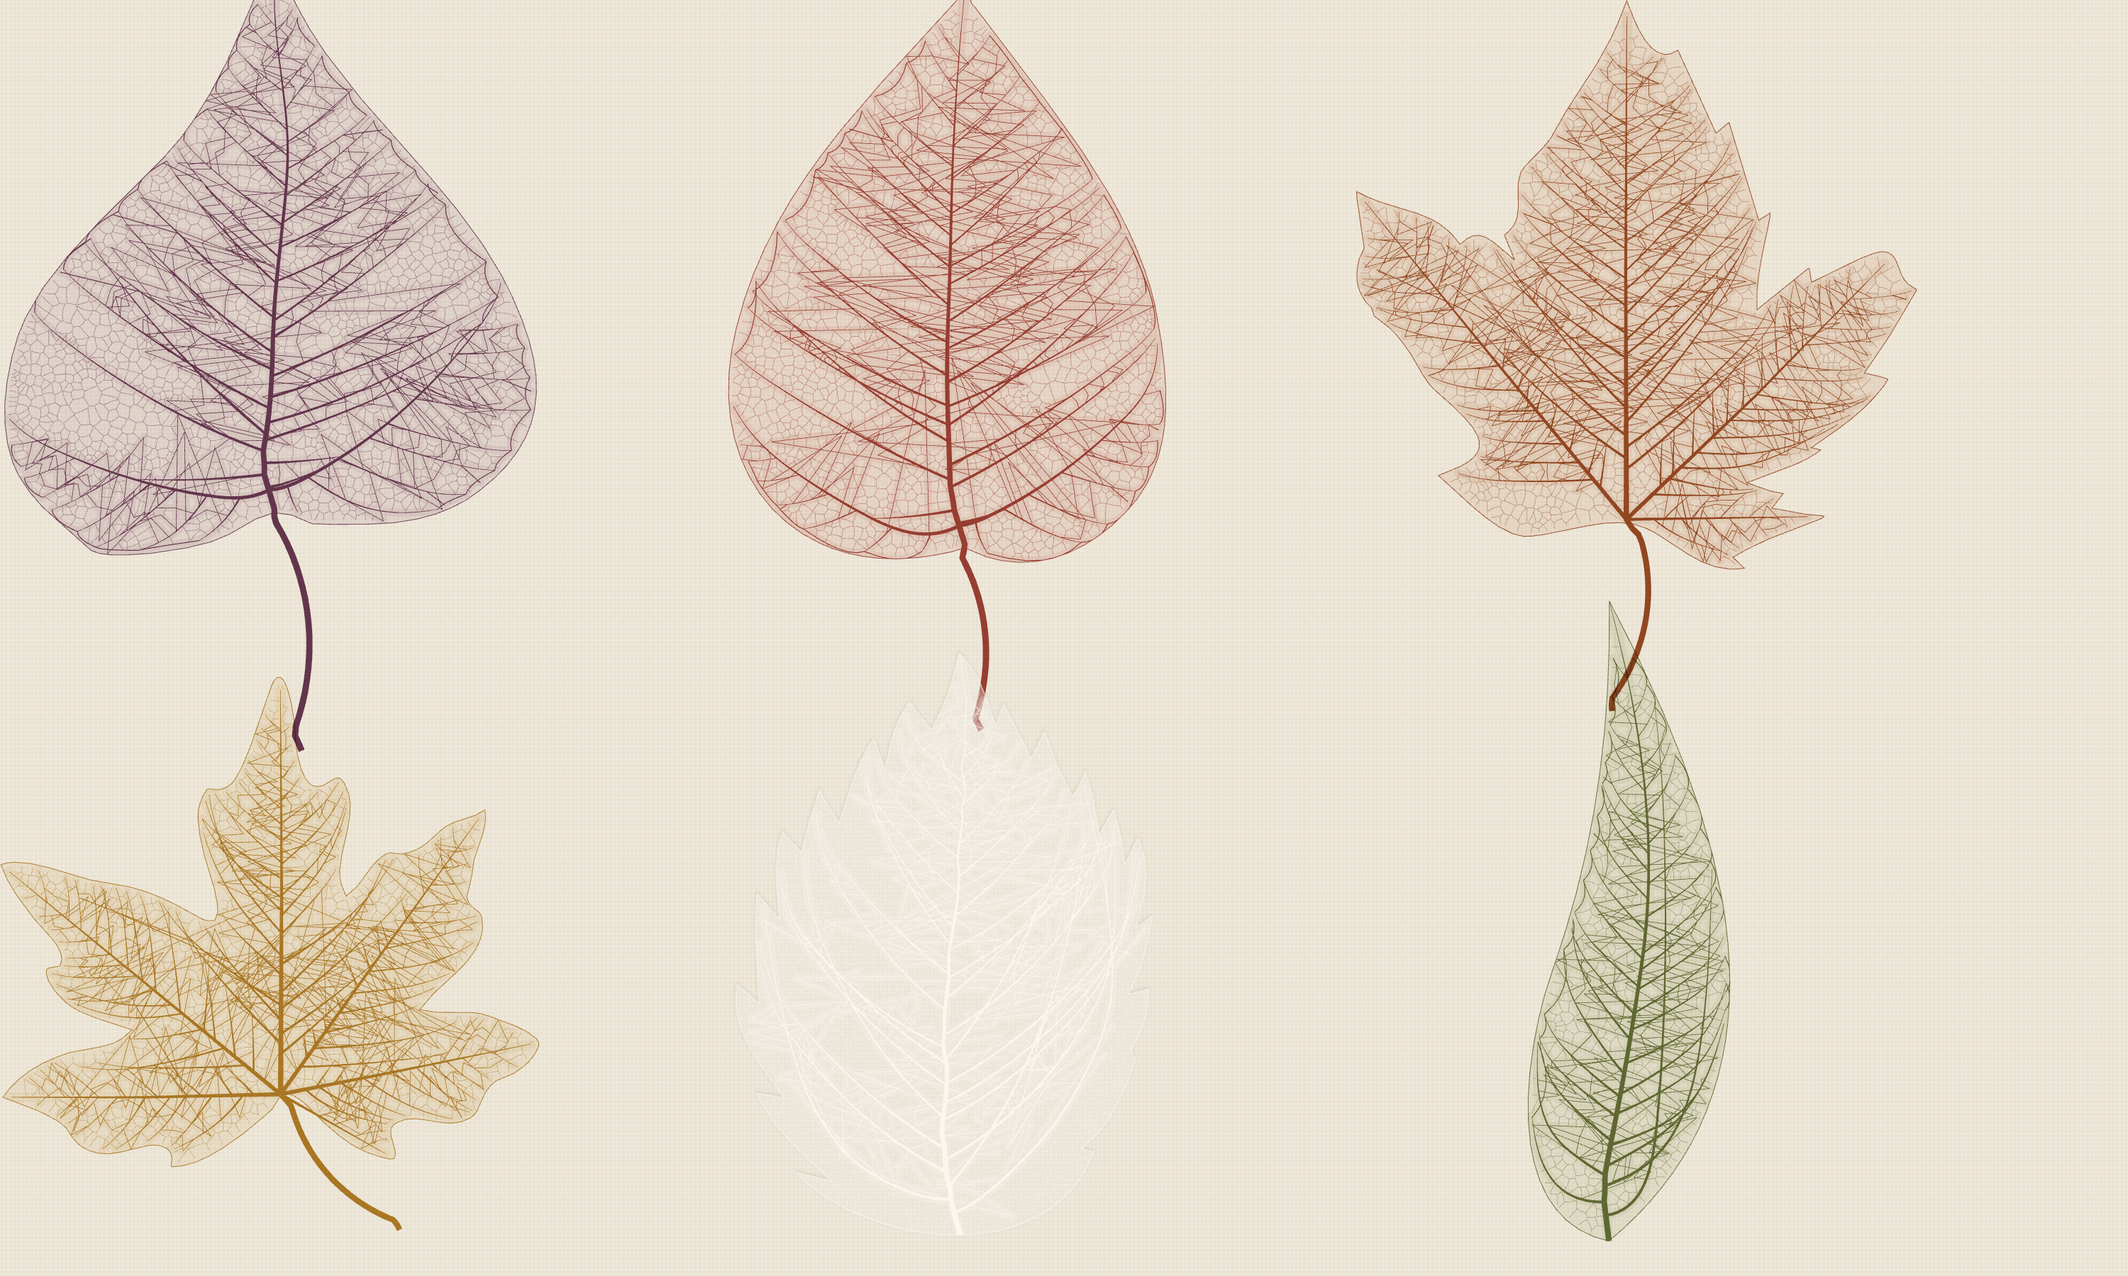
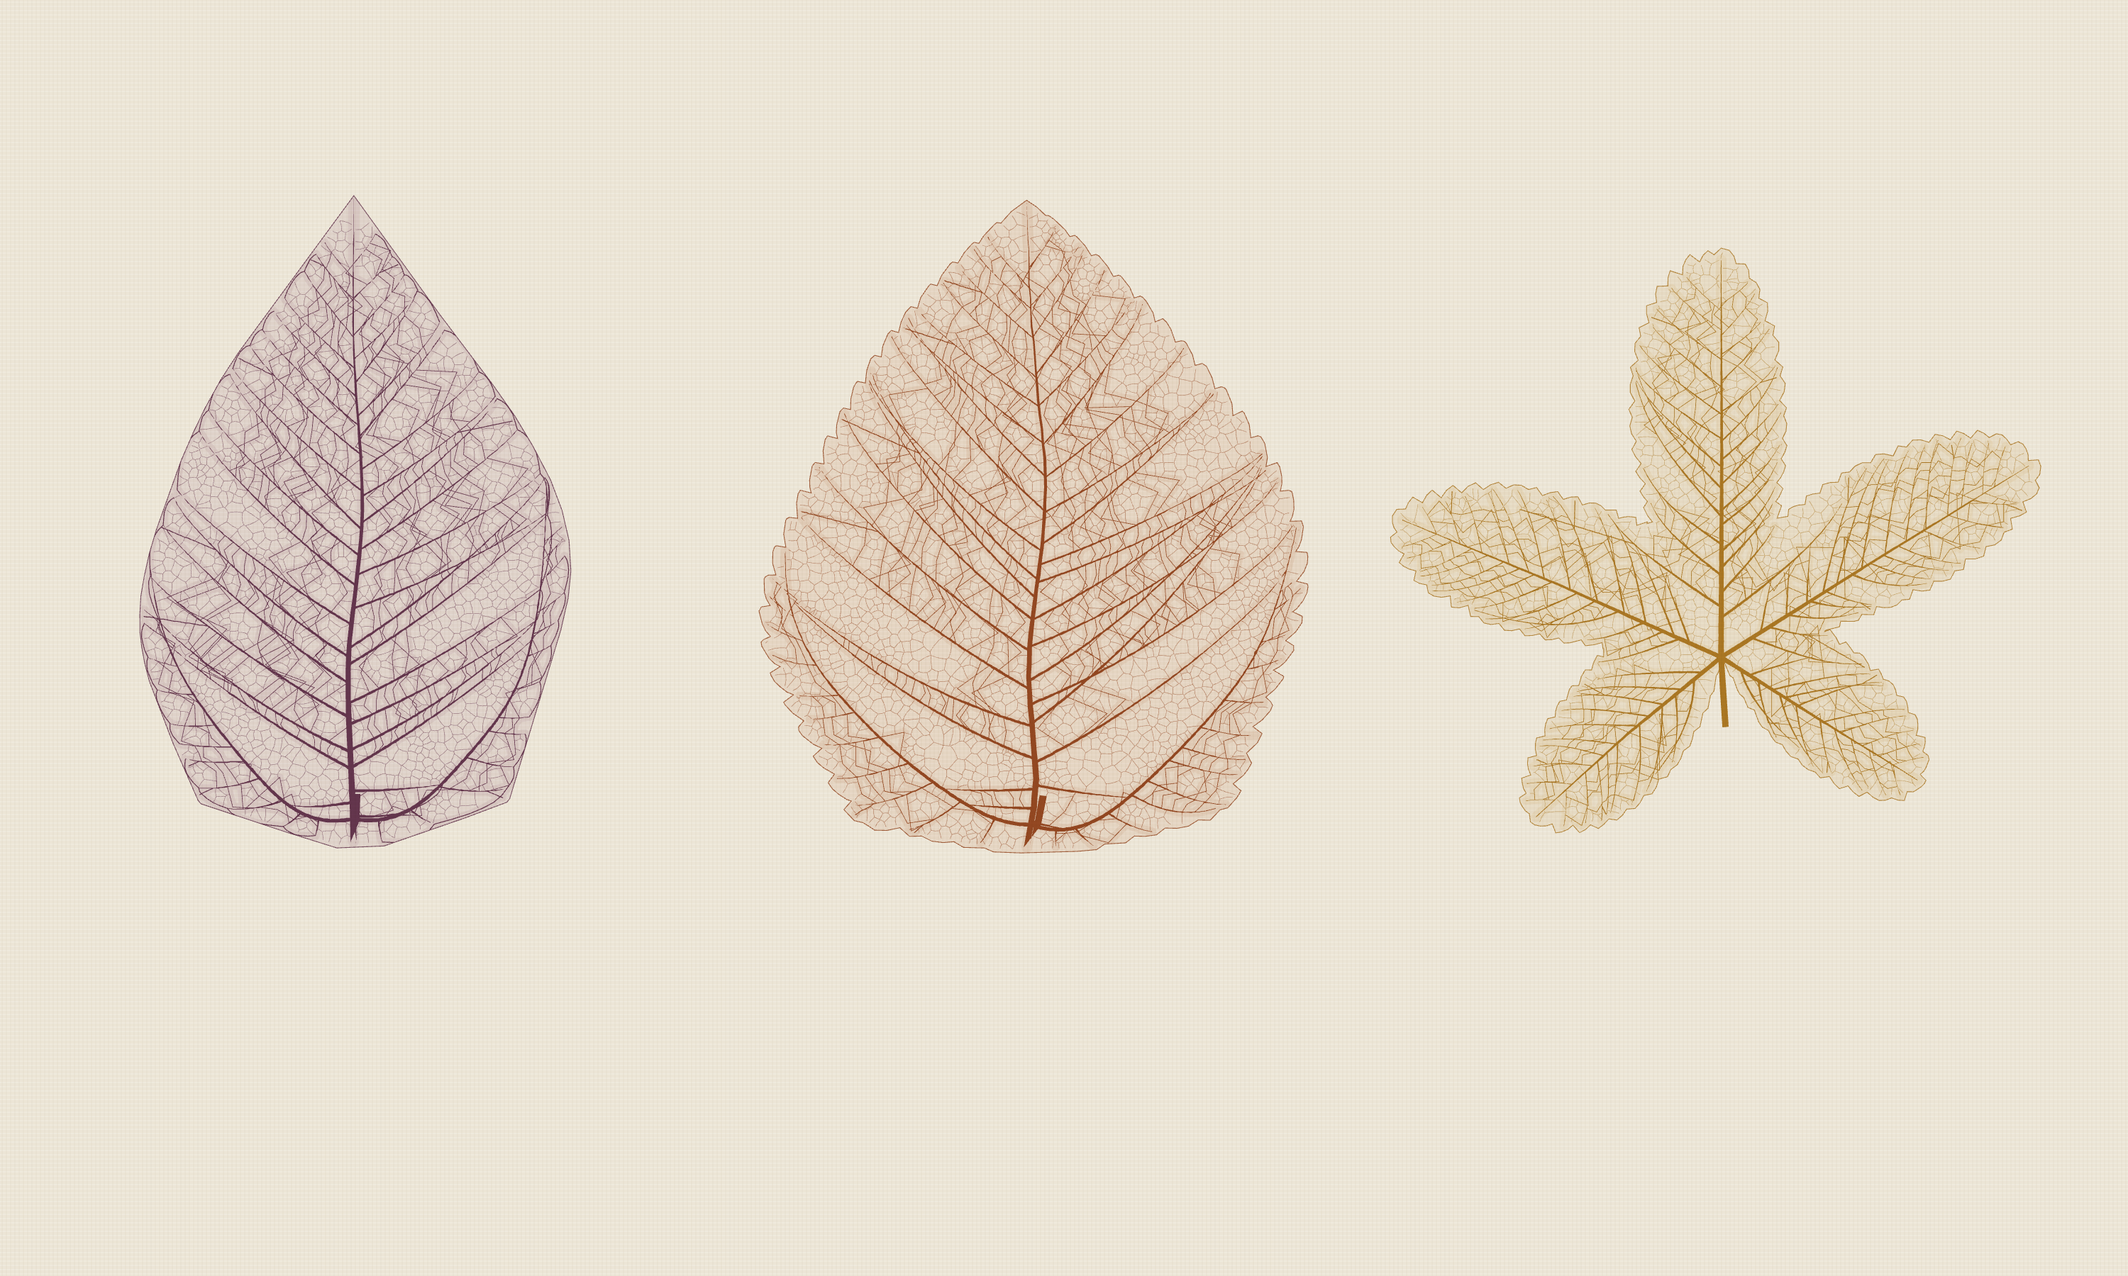
Phantom Bouquet: outlines generated from leaf geometry, maple added
The maintainer's verdict on the traced silhouettes -- sloppy, not the
basic geometry of real leaves -- retired variety.svg as the source of
shape. genleaf.py builds every outline from the law real leaves follow:
a two-arc width profile (convex base to the widest point, concave into
an acuminate tip), a notched petiole sinus, broad cordate lobes, graded
tipward-leaning serration on orientation-correct normals, and a few
percent of low-frequency asymmetry. A new palmate() fans five jittered
lobes with rounded sinus floors; the existing palmate venation branch
fans a primary to each tip on its own. The sheet is now eight forms,
the maple among them, all generated; the vein pipeline is unchanged.
The panel still renders the old traced shapes, rebuilt only on
sign-off. Not yet seen by the maintainer.

diff --git a/docs/phantom-bouquet/proto/genleaf.py b/docs/phantom-bouquet/proto/genleaf.py
@@ -1,0 +1,179 @@
+"""Parametric leaf outlines, built the way a real leaf is shaped.
+
+A broad-leaved dicot silhouette is remarkably lawful, and this module follows the law
+instead of tracing someone else's drawing:
+
+  axis        base (the petiole's attachment) to tip, straight, length L.
+  width       a smooth unimodal profile along the axis, widest at `peak` (25-45% of the
+              way up for ovate leaves, halfway for elliptic ones), drawn from the beta
+              form t^a (1-t)^b: a small exponent a flares the base out, a small b
+              draws the tip out long and concave.
+  base        rounded for the lanceolate forms; cordate for the hearts - the two sides
+              leave the sinus nearly horizontally and dip below it as lobes around the
+              petiole.
+  tip         acuminate: the profile's small-b tail, stretched a little further for a
+              drip tip.
+  margin      entire, or serrated: regular teeth, graded to the local blade width,
+              each leaning toward the tip - steep on the tipward side, long on the
+              baseward side, the way real teeth are cut.
+  asymmetry   a few percent of low-frequency difference between the sides, so no leaf
+              is a mirror image of itself.
+
+Each leaf is returned in the shape the rest of the pipeline already eats:
+{'blade': shapely Polygon, 'stem': (centreline points, width)} - tip pointing up (+y),
+base at the origin.
+"""
+import math
+import random
+import numpy as np
+from shapely.geometry import Polygon
+
+
+def _profile(t, peak, baseflare, tipfall, tiphook, notch):
+    # Two arcs, the way botany draws an ovate side: convex from base to the widest
+    # point, concave from there into an acuminate point. baseflare sets how wide the
+    # belly sits at its fullest near the base; notch drops the two sides steeply into
+    # the petiole's sinus right at the start - without it the base closes as a flat
+    # shelf, which no leaf has.
+    t = np.asarray(t, dtype=float)
+    w = np.empty_like(t)
+    lo = t <= peak
+    tb = t[lo] / peak
+    w[lo] = np.sqrt(baseflare + (1.0 - baseflare) * (1.0 - (1.0 - tb) ** 2))
+    w[lo] *= notch + (1.0 - notch) * np.minimum(1.0, tb / 0.16)
+    u = (t[~lo] - peak) / (1.0 - peak)
+    w[~lo] = (1.0 - u ** tiphook) ** tipfall
+    return w / w.max()
+
+
+def leaf(ratio, peak, baseflare=0.3, tipfall=1.0, tiphook=2.0, cordate=0.0, drip=0.0,
+         serrate=0.0, asym=0.05, notch=0.3, seed=1, L=100.0, n=300):
+    """Build one leaf. ratio L/W, widest at `peak` of the axis, convex base arc flared
+    by baseflare, concave tip arc ending in a point (tipfall, tiphook), cordate lobes,
+    drip tip, serrated margin, asymmetry. Returns the pipeline dict."""
+    rnd = random.Random(seed)
+    t = np.linspace(0.0, 1.0, n)
+    w = _profile(t, peak, baseflare, tipfall, tiphook, notch)
+
+    y = L * t
+    # cordate: the sides dip below the sinus as lobes around the petiole - broad ones,
+    # reaching halfway out the blade, not a narrow collar at the attachment
+    if cordate > 0:
+        sig = 0.10 + 0.02 * rnd.random()
+        y = y - cordate * L * 0.095 * np.exp(-(t / sig) ** 2)
+    # drip tip: the last stretch of the axis is drawn out, so the small-b taper ends
+    # in a thin curved point
+    if drip > 0:
+        y = y + drip * L * 0.055 * np.clip((t - 0.82) / 0.18, 0.0, 1.0) ** 1.6
+
+    halfw = 0.5 * L / ratio
+    # each side gets its own low-frequency breathing on the profile, and its own
+    # widest point, a couple of percent apart
+    phL, phR = rnd.uniform(0, 2 * math.pi), rnd.uniform(0, 2 * math.pi)
+    fL, fR = rnd.uniform(1.1, 1.7), rnd.uniform(1.1, 1.7)
+    eL = 1.0 + asym * np.sin(2 * math.pi * fL * t + phL) * np.exp(-((t - 0.05) / 0.5) ** 2 * 0.3)
+    eR = 1.0 + asym * np.sin(2 * math.pi * fR * t + phR) * np.exp(-((t - 0.05) / 0.5) ** 2 * 0.3)
+    xR = halfw * w * eR
+    xL = -halfw * w * eL
+
+    # right side base->tip, left side tip->base, one closed ring
+    ring = [(float(xR[i]), float(y[i])) for i in range(n)]
+    ring += [(float(xL[i]), float(y[i])) for i in range(n - 2, 0, -1)]
+
+    widths = np.concatenate([w, w[n - 2:0:-1]])
+    if serrate > 0:
+        ring = _teeth(ring, widths, w.max(), L, serrate, rnd)
+    poly = Polygon(ring).buffer(0)
+    if hasattr(poly, 'geoms'):
+        poly = max(poly.geoms, key=lambda g: g.area)
+    poly = poly.simplify(0.12)
+
+    # the petiole: a gently curved stalk down from the sinus
+    bend = rnd.uniform(-0.35, 0.35)
+    plen = L * rnd.uniform(0.10, 0.13)
+    stem = ([(0.0, 0.0),
+             (bend * plen * 0.35, -plen * 0.45),
+             (bend * plen, -plen)], 0.0)
+    return {'blade': poly, 'stem': stem}
+
+
+def _teeth(ring, widths, wmax, L, serrate, rnd, e1=0.7, e2=0.12):
+    """Serrate a closed margin. Teeth are graded to the local blade width, spaced
+    evenly in arc length, and each leans tipward: a long baseward slope and a sharp
+    drop - the profile peaks late, so the tooth reads as cut, not as a wobble."""
+    P = np.array(ring)
+    d = np.hypot(*(P[1:] - P[:-1]).T)
+    s = np.concatenate([[0.0], np.cumsum(d)])
+    total = s[-1]
+    # margin direction flips halfway (up the right side, down the left); the tooth's
+    # lean has to flip with it, or the left side's teeth point baseward
+    half = 0.5 * total
+    S = L / rnd.uniform(17.0, 20.0)
+    g = np.linspace(0.0, 1.0, 1001)
+    norm = ((g ** e1) * ((1.0 - g) ** e2)).max()
+    P = np.array(ring)
+    # which way is out: on a clockwise ring the outside is to the left of travel, on a
+    # counterclockwise one to the right (n = (-ty, tx) is the left of travel)
+    a2 = float((P[:-1, 0] * P[1:, 1] - P[1:, 0] * P[:-1, 1]).sum())
+    flip = 1.0 if a2 < 0 else -1.0
+    out = []
+    n = len(P)
+    for i in range(n):
+        a, c = P[max(0, i - 1)], P[min(n - 1, i + 1)]
+        tx, ty = c[0] - a[0], c[1] - a[1]
+        tl = math.hypot(tx, ty) or 1.0
+        nx, ny = -ty / tl * flip, tx / tl * flip
+        cx, cy = P[i]
+        # grade the tooth by the local blade width
+        grade = (widths[i] / wmax) ** 0.6
+        frac = ((s[i] / S) % 1.0)
+        gg = frac if s[i] < half else 1.0 - frac
+        h = serrate * L * 0.022 * grade
+        amp = h * (gg ** e1) * ((1.0 - gg) ** e2) / norm
+        out.append((cx + nx * amp, cy + ny * amp))
+    return out
+
+
+def palmate(lobes=5, R=100.0, sinus=0.32, serrate=1.4, asym=0.05, seed=1, m=48):
+    """A maple: lobe tips fan out from the base, and between them the margin dips into
+    rounded sinuses. Each lobe carries its own radius (the central one longest, the
+    outer shortest) and every control point is jittered a few percent, so the leaf is
+    not a star symmetry. Returns the pipeline dict, tip up, base at the origin."""
+    rnd = random.Random(seed)
+    spread = 138 + rnd.uniform(-7, 7)
+    ang = [-spread, -spread * 0.5, 0.0, spread * 0.5, spread][:lobes] if lobes == 5 else [0.0]
+    rl = [(1.0 - 0.24 * (a / spread) ** 2) * R for a in ang]
+    rl = [r * rnd.uniform(0.95, 1.05) for r in rl]
+    ang = [a + rnd.uniform(-3, 3) for a in ang]
+    rs = [sinus * R * rnd.uniform(0.92, 1.08) for _ in ang[:-1]]
+    rb = R * rnd.uniform(0.12, 0.17)
+    # controls from the base bottom (-180) up the right side and back down to (+180)
+    seq = [(-180.0, rb)]
+    for k, a in enumerate(ang):
+        if k:
+            seq.append(((ang[k - 1] + a) / 2.0, rs[k - 1]))
+        seq.append((a, rl[k]))
+    seq.append((180.0, rb))
+    ring = []
+    for (a0, r0), (a1, r1) in zip(seq, seq[1:]):
+        to_lobe = r1 > r0
+        for i in range(1, m + 1):
+            u = i / float(m)
+            th = math.radians(a0 + (a1 - a0) * u)
+            w = (1.0 + math.cos(math.pi * u)) / 2.0
+            if to_lobe:
+                r = r0 + (r1 - r0) * (1.0 - w ** 0.75)
+            else:
+                r = r1 + (r0 - r1) * w ** 0.8
+            ring.append((r * math.sin(th), r * math.cos(th) + rb))
+    ring = _teeth(ring, [math.hypot(px, py - 0.0) for px, py in ring], R, R, serrate, rnd, e2=0.09)
+    poly = Polygon(ring).buffer(0)
+    if hasattr(poly, 'geoms'):
+        poly = max(poly.geoms, key=lambda g: g.area)
+    poly = poly.simplify(0.12)
+    bend = rnd.uniform(-0.35, 0.35)
+    plen = R * rnd.uniform(0.16, 0.20)
+    stem = ([(0.0, 0.0),
+             (bend * plen * 0.35, -plen * 0.45),
+             (bend * plen, -plen)], 0.0)
+    return {'blade': poly, 'stem': stem}

diff --git a/docs/phantom-bouquet/proto/lab7.py b/docs/phantom-bouquet/proto/lab7.py
@@ -1,0 +1,40 @@
+import sys, os
+sys.path.insert(0, os.path.dirname(os.path.abspath(__file__)))
+import numpy as np
+import traced as T
+import skeleton as SK
+import genleaf as G
+src = open('gen-lite.py').read()
+LINEN = '#ECE5D6'
+DEFS = eval("(" + src.split("DEFS = (")[1].split("IVORY =")[0].strip())
+IVORY = ('#FBF7EC', '#FFFDF6')
+TINTS = {'madder': ('#A3443A', '#C2584B'), 'ochre': ('#B7832A', '#D4A043'), 'rust': ('#9E4F27', '#C0693A'), 'olive': ('#66733A', '#8A9852'), 'plum': ('#6B3B5A', '#8E5379')}
+
+# Six forms, each after one of the maintainer's reference photos. The generated leaves
+# take over the indices the pipeline's type sets know about: hearts are BROAD (a pair of
+# basal veins), serrated ones TOOTHED (secondaries run out to the teeth).
+LEAVES = [
+    G.leaf(1.35, 0.36, baseflare=0.38, tipfall=1.0, tiphook=1.9, cordate=1.0, drip=1.0, asym=0.05, notch=0.16, seed=11),    # 0 the bodhi-like heart
+    G.leaf(1.9, 0.33, baseflare=0.16, tipfall=1.05, tiphook=2.0, drip=0.7, asym=0.05, seed=22),                             # 1 ovate-lanceolate
+    G.leaf(1.18, 0.32, baseflare=0.38, tipfall=1.0, tiphook=1.9, cordate=1.0, serrate=1.0, asym=0.06, notch=0.16, seed=33), # 2 cordate, serrated
+    G.leaf(2.4, 0.46, baseflare=0.10, tipfall=1.05, tiphook=2.0, asym=0.04, seed=44),                                       # 3 lanceolate
+    G.leaf(1.06, 0.44, baseflare=0.34, tipfall=1.0, tiphook=2.0, cordate=0.9, serrate=0.9, asym=0.06, notch=0.18, seed=55), # 4 round cordate, serrated
+    G.leaf(3.0, 0.52, baseflare=0.08, tipfall=1.0, tiphook=2.2, asym=0.04, seed=66),                                        # 5 the willow
+    G.leaf(1.35, 0.36, baseflare=0.38, tipfall=1.0, tiphook=1.9, cordate=1.0, drip=1.0, asym=0.05, notch=0.16, seed=77),    # 6 the heart again, another leaf
+    G.palmate(5, R=100.0, sinus=0.32, serrate=1.6, asym=0.05, seed=88),                                                     # 7 the maple
+]
+T.PALMATE = {7}
+T.BROAD = {0, 2, 4, 6}
+SK.TOOTHED = {2, 4, 7}
+T.BASE_AT_NARROW_END = set()
+
+W, H = 1500, 780
+o = [DEFS, '<rect width="%d" height="%d" fill="url(#weave)"/>' % (W, H)]
+items = [(0, None), (2, 'rust'), (0, 'plum'), (5, 'olive'), (4, None), (6, 'madder'), (3, 'ochre'), (7, 'rust')]
+for n, (li, col) in enumerate(items):
+    ink, tint = IVORY if col is None else TINTS[col]
+    x = 150 + (n % 4) * 360
+    y = 180 + (n // 4) * 400
+    o.append(SK.render(LEAVES[li], x, y, 280, 0, ink, tint, 0.3 if col is None else 0.12, 90 + n, li, blend=col is not None, shadow=col is None))
+open('lab7.svg', 'w').write('<svg xmlns="http://www.w3.org/2000/svg" width="%d" height="%d" viewBox="0 0 %d %d">%s</svg>' % (W, H, W, H, ''.join(o)))
+print(len(open('lab7.svg').read()))

diff --git a/docs/phantom-bouquet/proto/lab8.py b/docs/phantom-bouquet/proto/lab8.py
@@ -1,0 +1,29 @@
+import sys, os
+sys.path.insert(0, os.path.dirname(os.path.abspath(__file__)))
+import traced as T
+import skeleton as SK
+import genleaf as G
+src = open('gen-lite.py').read()
+LINEN = '#ECE5D6'
+DEFS = eval("(" + src.split("DEFS = (")[1].split("IVORY =")[0].strip())
+IVORY = ('#FBF7EC', '#FFFDF6')
+TINTS = {'madder': ('#A3443A', '#C2584B'), 'ochre': ('#B7832A', '#D4A043'), 'rust': ('#9E4F27', '#C0693A'), 'olive': ('#66733A', '#8A9852'), 'plum': ('#6B3B5A', '#8E5379')}
+LEAVES = [
+    G.leaf(1.35, 0.36, baseflare=0.38, tipfall=1.0, tiphook=1.9, cordate=1.0, drip=1.0, asym=0.05, notch=0.16, seed=11),
+    G.leaf(1.18, 0.32, baseflare=0.38, tipfall=1.0, tiphook=1.9, cordate=1.0, serrate=1.0, asym=0.06, notch=0.16, seed=33),
+    G.palmate(5, R=100.0, sinus=0.32, serrate=1.6, asym=0.05, seed=88),
+]
+T.PALMATE = {2}
+T.BROAD = {0, 1}
+SK.TOOTHED = {1, 2}
+T.BASE_AT_NARROW_END = set()
+W, H = 1500, 900
+o = [DEFS, '<rect width="%d" height="%d" fill="url(#weave)"/>' % (W, H)]
+items = [(0, 'plum'), (1, 'rust'), (2, 'ochre')]
+for n, (li, col) in enumerate(items):
+    ink, tint = IVORY if col is None else TINTS[col]
+    x = 250 + n * 480
+    y = 400
+    o.append(SK.render(LEAVES[li], x, y, 460, 0, ink, tint, 0.12, 90 + n, li, blend=True))
+open('lab8.svg', 'w').write('<svg xmlns="http://www.w3.org/2000/svg" width="%d" height="%d" viewBox="0 0 %d %d">%s</svg>' % (W, H, W, H, ''.join(o)))
+print(len(open('lab8.svg').read()))

diff --git a/docs/phantom-bouquet/HANDOFF.md b/docs/phantom-bouquet/HANDOFF.md
@@ -372,3 +372,66 @@ the source of `variety.svg` (still unrecorded, see section 2) may have better sh
 or the outlines could be redrawn by hand against the photo references.
 
 **Not yet seen by the maintainer.**
+
+## 8. Eighth turn (2026-10-05): the outlines are now generated, not traced
+
+The seventh turn's sheet came back with the strongest verdict yet — "incredibly
+sloppy, they don't follow the basic geometry of real leaf shapes" — and then three
+more reference images: a line-art sheet of six skeletons (serrate ovates,
+lanceolates, a lobed mulberry-like form), and two maples. Reading them together
+settled what the complaint was: not the venation, which the seventh turn fixed, but
+the silhouettes themselves. The clip-art outlines from `variety.svg` are hand-drawn
+cartoons: no width law, no proper base, no acuminate progression. Dressing them
+better was never going to close the gap.
+
+So `proto/genleaf.py` is new: outlines built from the law real leaves follow,
+replacing `variety.svg` as the source of every shape.
+
+- **Two-arc width profile.** Each side is convex from the base to the widest point
+  (`peak`, 26–52% of the axis) and concave from there into an acuminate point. A
+  `notch` factor drops both sides steeply into the petiole's sinus — without it the
+  base closes as a flat shelf, which no leaf has (that exact bug cost one iteration).
+- **Cordate bases**: the sides dip below the sinus as broad lobes around the petiole,
+  reaching about halfway out the blade — not the narrow collar the first attempt
+  gave.
+- **Serration**: regular teeth spaced in arc length, graded to the local blade width,
+  each leaning tipward (long baseward slope, sharp drop — peak at g≈0.85). Teeth
+  displace along the polygon-orientation outward normal, which fixed the old
+  reference-point test that broke on the maple's radial ring.
+- **Asymmetry**: a few percent of low-frequency difference between the sides, plus
+  jittered peak positions — no leaf is a mirror of itself.
+- **`palmate()`** for the maple: lobe tips fan from the base with per-lobe radii
+  (central longest), rounded sinus floors between them, everything jittered a few
+  percent so it is not a star symmetry. The existing palmate venation branch picks
+  the lobe tips up automatically and fans a primary to each.
+
+The vein pipeline is untouched and adapts on its own: generated leaves are returned
+in the same `{'blade', 'stem'}` shape `traced.load()` produced, so `skeleton.py`
+cannot tell the difference. Type sets are re-pointed in `lab7.py`
+(`T.PALMATE = {7}`, `T.BROAD`, `SK.TOOTHED`). The maple is form 7; the sheet is now
+eight forms — two hearts, a serrated cordate, a round serrated cordate, an
+ovate-lanceolate, a lanceolate, the willow, and the maple.
+
+`panel2.py` still renders the old traced shapes — the panel is rebuilt only after
+the maintainer signs off on the sheet, per the rule that has governed every turn.
+
+**Where this now stands** (`curated-sheet-latest.png` at 2×, `stem-join-latest.png`
+closeups at 2×): every outline obeys the geometry law; serration reads as cut; the
+maple's structure matches the white reference — fan of primaries, ladders in lobes,
+deep rounded sinuses. Weak spots, named honestly: the hearts' basal lobes are
+slightly horned where the dip meets the rising profile; the maple's lobes are a
+little uniform and could carry one more secondary each; and leaf-to-leaf the family
+is still tidier than a real 1864 bouquet, which had torn and damaged leaves.
+
+**Next step:** show the maintainer. If the shapes pass, the theme build (section 4,
+step 2) follows on this branch — and the generator dependency question there grows
+one more answer: `genleaf.py` itself needs only numpy.
+
+**To run the new sheets:**
+
+```
+python3 lab7.py && node ~/.zcode/shot-tools/shot.js file://$PWD/lab7.svg lab7.png 1500 780 2
+python3 lab8.py && node ~/.zcode/shot-tools/shot.js file://$PWD/lab8.svg lab8.png 1500 900 2
+```
+
+**Not yet seen by the maintainer.**
